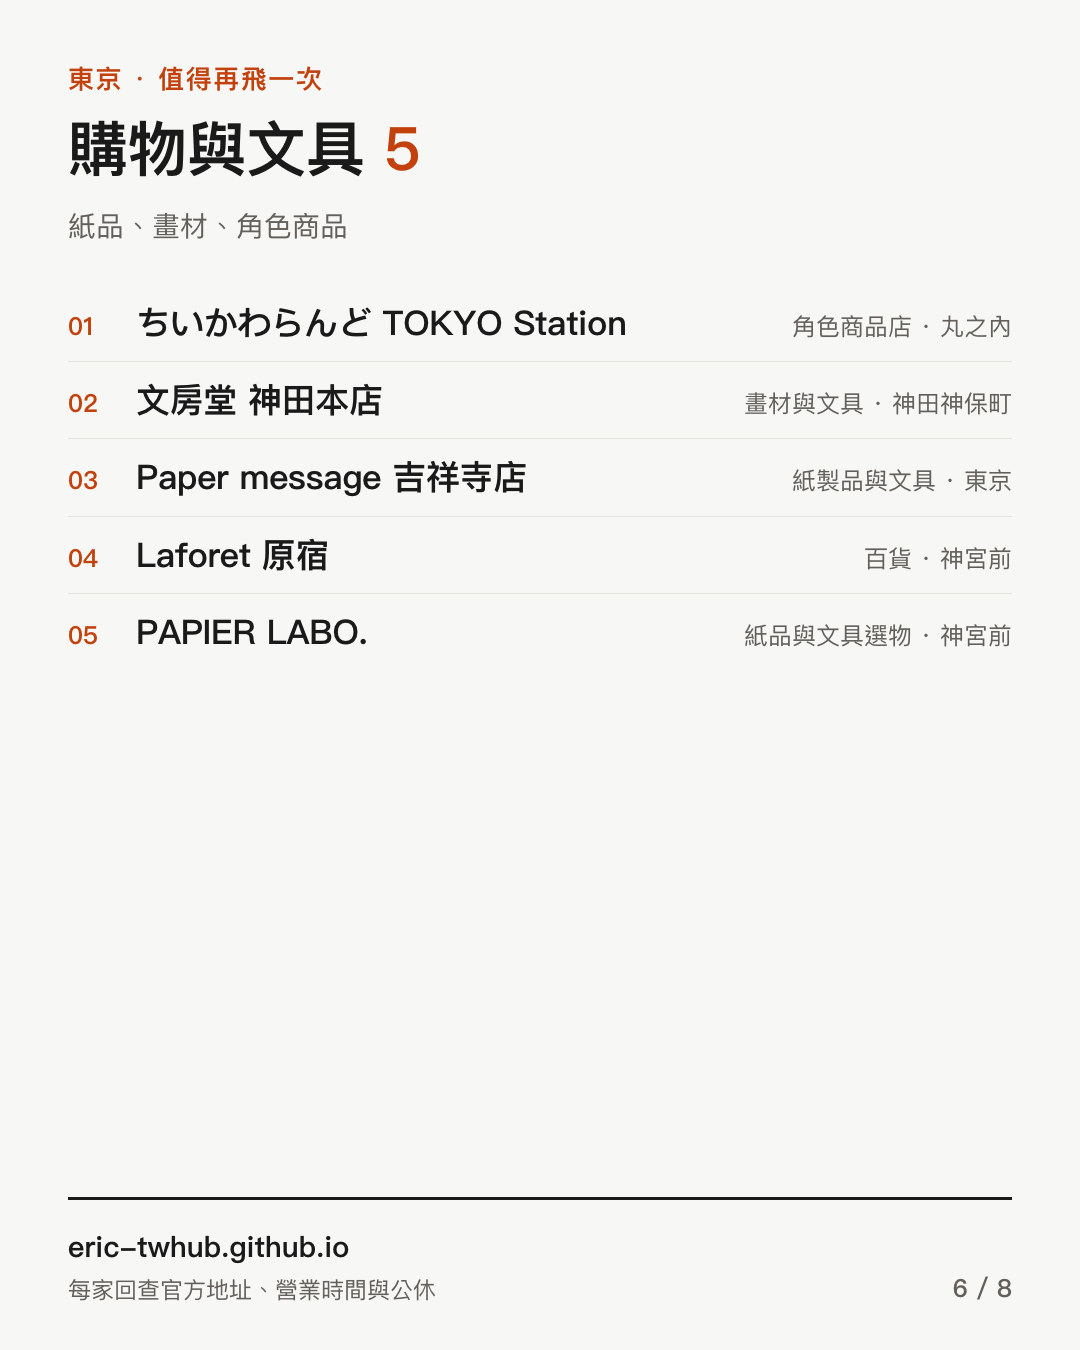
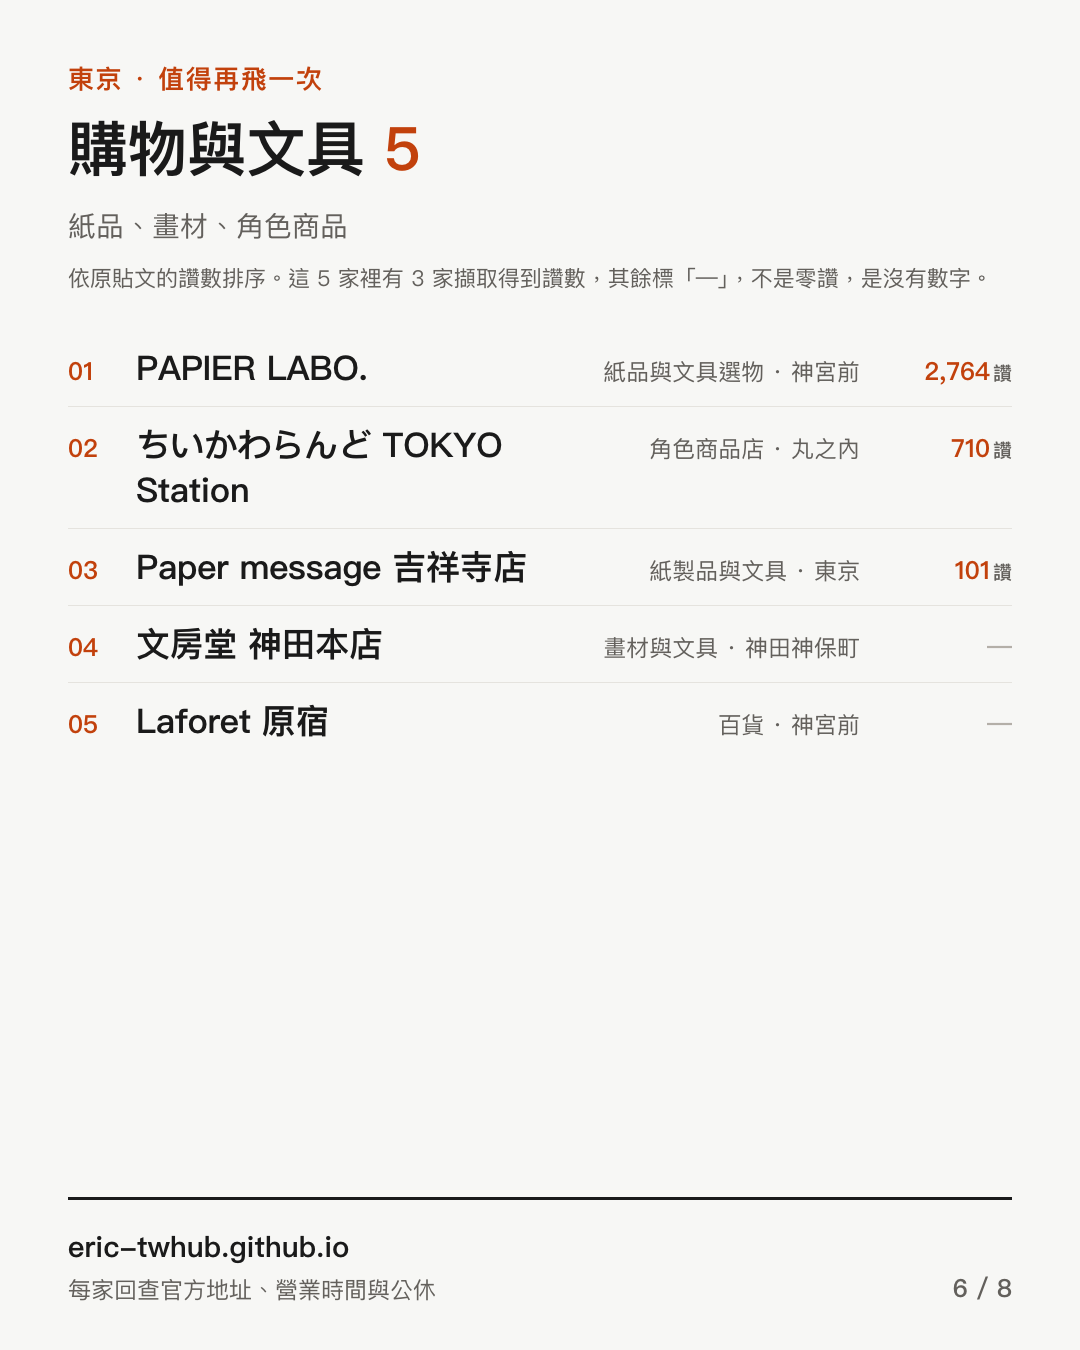
圖卡改成依讚數排序，並把讚數印在卡片上
原本圖卡是照 tokyo-picks.json 的原序，網頁卻是依原貼文讚數排（gen.py:3922），
兩邊規則不一樣。更糟的是圖卡有 01、02 的編號，看起來就是名次，
但「肉」那張的 01 是米久本店（1,490 讚），真正最高的燒肉あぶる（7,284 讚）被排在 02。
編號在暗示一個不存在的排名。

現在圖卡用和網頁同一個排序鍵，並在每一列右邊印出讚數。

沒有擷取到讚數的 22 家不補 0，標「—」。補 0 會變成宣稱它得了零讚，
和站上「沒查到不等於沒有」的原則相反。每張卡片上都寫明這件事：
「這 N 家裡有 M 家擷取得到讚數，其餘標『—』，不是零讚，是沒有數字。」
封面也改成講清楚排序依據是原貼文讚數、不是本站評的，
而且 M 是從資料算的，不是寫死的數字。

diff --git a/make_picks_cards.py b/make_picks_cards.py
@@ -38,6 +38,11 @@ def _chrome():
     sys.exit('找不到 Chrome，請設定 CHROME 環境變數')
 
 
+def likes(s):
+    """原貼文那則留言的讚數。沒擷取到就是 0，用來排序時墊底，但不印成 0。"""
+    return (s.get('src') or {}).get('likes') or 0
+
+
 def area(s):
     """從地址抽一個看得懂的地名。町名比行政區好認（淺草 > 台東區）。"""
     a = s.get('addr') or ''
@@ -76,8 +81,13 @@ h1 em{font-style:normal;color:#c2410c}
 .row:last-child{border-bottom:0}
 .num{flex:0 0 48px;font-size:25px;font-weight:700;color:#c2410c;font-variant-numeric:tabular-nums}
 .nm{flex:1 1 auto;font-size:34px;font-weight:700;line-height:1.3;letter-spacing:-.01em}
-.mt{flex:0 0 auto;font-size:24px;color:#63605c;white-space:nowrap;padding-left:14px;
+.mt{flex:0 0 auto;font-size:23px;color:#63605c;white-space:nowrap;padding-left:14px;
  text-align:right;line-height:1.3}
+.lk{flex:0 0 132px;font-size:25px;font-weight:700;color:#c2410c;text-align:right;
+ white-space:nowrap;font-variant-numeric:tabular-nums;line-height:1.3}
+.lk small{font-size:19px;font-weight:500;color:#63605c;margin-left:3px}
+.lk.non{color:#b4afa8;font-weight:500}
+.legend{font-size:22px;color:#63605c;margin-top:10px;line-height:1.6}
 .dead .nm{text-decoration:line-through;text-decoration-thickness:2px;color:#c4563a}
 .dead .mt{color:#c4563a}
 .foot{flex:0 0 auto;padding:26px 0 44px;border-top:3px solid #1a1a1a;
@@ -143,6 +153,7 @@ def build(d):
     src = d['source']
     off = sum(1 for x in S if x.get('official'))
     bad = sum(1 for _, _, c in d['corrections'] if '成立' not in c)
+    withlikes = sum(1 for x in S if likes(x))
     out = []
 
     cover = ('<div class="kick">Threads 查證系列</div>'
@@ -154,23 +165,33 @@ def build(d):
              f'<div><b>{len(S)}</b><span>家店<br>整理出來</span></div>'
              f'<div><b>{off}</b><span>家找到<br>官方網站</span></div>'
              f'<div><b>{bad}</b><span>處留言<br>要修正</span></div></div>'
-             '<div class="note">其中一家在整理期間就已經歇業了。'
-             '同品牌在東京還有八家，但只有兩家跟它一樣是坐著吃的迴轉壽司。</div>'
+             '<div class="note">排序依原貼文的讚數，不是本站評的。'
+             f'{len(S)} 家裡有 {withlikes} 家擷取得到讚數，其餘標「—」。</div>'
              + foot(1, n))
     out.append(('tokyo-46-01.png', page(cover, 'cover')))
 
     for i, (t, sub, items) in enumerate(groups, 2):
+        # 和網頁同一個排序鍵：原貼文的讚數由多到少。沒有擷取到讚數的排在後面，
+        # 維持原序。不要補 0，那等於宣稱它得了 0 個讚。
+        items = sorted(items, key=lambda x: -likes(x))
         rows = ''
         for j, s in enumerate(items, 1):
             dead = s.get('status')
             meta = E(dead) if dead else E(s['cat']) + ' · ' + E(area(s))
+            lk = likes(s)
+            lkh = (f'<div class="lk">{lk:,}<small>讚</small></div>' if lk
+                   else '<div class="lk non">—</div>')
             rows += (f'<div class="row{" dead" if dead else ""}">'
                      f'<div class="num">{j:02}</div>'
                      f'<div class="nm">{E(s["n"])}</div>'
-                     f'<div class="mt">{meta}</div></div>')
+                     f'<div class="mt">{meta}</div>{lkh}</div>')
+        got = sum(1 for x in items if likes(x))
         inner = ('<div class="kick">東京 · 值得再飛一次</div>'
                  f'<h1>{E(t)}<em> {len(items)}</em></h1>'
                  f'<div class="sub">{E(sub)}</div>'
+                 f'<div class="legend">依原貼文的讚數排序。'
+                 f'這 {len(items)} 家裡有 {got} 家擷取得到讚數，'
+                 f'其餘標「—」，不是零讚，是沒有數字。</div>'
                  f'<div class="list">{rows}</div>' + foot(i, n))
         out.append((f'tokyo-46-{i:02}.png', page(inner)))
 
